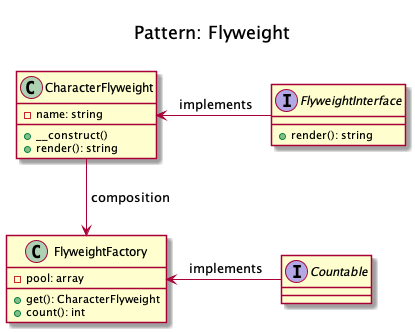
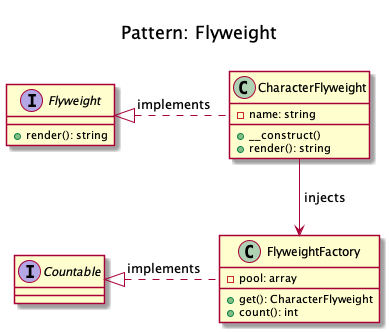
Flyweight was updated.

diff --git a/patterns/structural/flyweight/kamran-ahmed/TeaShop.php b/patterns/structural/flyweight/kamran-ahmed/TeaShop.php
@@ -3,20 +3,20 @@ namespace Patterns\Structural\Flyweight\KamranAhmed;
 
 class TeaShop {
 	protected $orders;
-	protected $teaMaker;
+	protected $teaFactory;
 	protected $messages;
 
-	public function __construct(TeaMaker $teaMaker) {
-		$this->teaMaker = $teaMaker;
+	public function __construct(TeaFactory $teaFactory) {
+		$this->teaFactory = $teaFactory;
 	}
 
-	public function takeOrder(string $teaType, int $table) {
-		$this->orders[$table] = $this->teaMaker->make($teaType);
+	public function takeOrder(string $teaType, int $table): void {
+		$this->orders[$table] = $this->teaFactory->make($teaType);
 	}
 
 	public function serve(): array {
 		foreach ($this->orders as $table => $tea) {
-			$this->messages[] = "Serving tea to table #".$table;
+			$this->messages[] = "Serving ".$tea->getType()." to table #".$table;
 		}
 		return $this->messages;
 	}

diff --git a/tests/kamran-ahmed/FlyweightTest.php b/tests/kamran-ahmed/FlyweightTest.php
@@ -1,10 +1,25 @@
 <?php
 namespace Tests\KamranAhmed;
 
+use Patterns\Structural\Flyweight\KamranAhmed\TeaFactory;
+use Patterns\Structural\Flyweight\KamranAhmed\TeaShop;
 use PHPUnit\Framework\TestCase;
 
 class FlyweightTest extends TestCase {
-	public function testA() {
-		$this->assertTrue(true);
+	public function testTeaShop() {
+		$teaMaker = new TeaFactory();
+		$shop = new TeaShop($teaMaker);
+
+		$shop->takeOrder('less sugar', 1);
+		$shop->takeOrder('more milk', 2);
+		$shop->takeOrder('without sugar', 5);
+		$serve = $shop->serve();
+
+		$this->assertSame('array', gettype($serve));
+		$this->assertSame('Serving less sugar to table #1', $serve[0]);
+		$this->assertCount(3, $serve);
+		$this->assertSame('Serving more milk to table #2', $serve[1]);
+		$this->assertSame('Serving without sugar to table #5', $serve[2]);
 	}
 }
+

diff --git a/patterns/structural/flyweight/domnikl/CharacterFlyweight.php b/patterns/structural/flyweight/domnikl/CharacterFlyweight.php
@@ -3,7 +3,7 @@ namespace Patterns\Structural\Flyweight\Domnikl;
 
 # Implements the flyweight interface and adds storage for intrinsic state (It does not depend on the circumstances).
 # Instances of concrete flyweights are shared by means of a factory.
-class CharacterFlyweight implements FlyweightInterface {
+class CharacterFlyweight implements Flyweight {
 
 	# Any state stored by the concrete flyweight must be independent of its context.
 	# For flyweights representing characters, this is usually the corresponding character code.

diff --git a/patterns/structural/flyweight/kamran-ahmed/TeaFactory.php b/patterns/structural/flyweight/kamran-ahmed/TeaFactory.php
@@ -1,13 +1,17 @@
 <?php
 namespace Patterns\Structural\Flyweight\KamranAhmed;
 
-class TeaMaker {
+class TeaFactory {
 	protected $availableTea = [];
 
 	public function make($preference): GreenTea {
 		if (empty($this->availableTea[$preference])) {
-			$this->availableTea[$preference] = new GreenTea();
+			$this->availableTea[$preference] = new GreenTea($preference);
 		}
 		return $this->availableTea[$preference];
+	}
+
+	public function getAvailableTea(): array {
+		return $this->availableTea;
 	}
 }

diff --git a/patterns/structural/flyweight/kamran-ahmed/GreenTea.php b/patterns/structural/flyweight/kamran-ahmed/GreenTea.php
@@ -1,4 +1,14 @@
 <?php
 namespace Patterns\Structural\Flyweight\KamranAhmed;
 
-class GreenTea {}
+class GreenTea {
+	private $type;
+
+	public function __construct($type) {
+		$this->type = $type;
+	}
+
+	public function getType() {
+		return $this->type;
+	}
+}

diff --git a/tests/domnikl/FlyweightTest.php b/tests/domnikl/FlyweightTest.php
@@ -1,7 +1,7 @@
 <?php
 namespace Tests\Domnikl;
 
-use DesignPatterns\Structural\Flyweight\FlyweightFactory;
+use Patterns\Structural\Flyweight\Domnikl\FlyweightFactory;
 use PHPUnit\Framework\TestCase;
 
 class FlyweightTest extends TestCase {

diff --git a/patterns/structural/flyweight/domnikl/Flyweight.php b/patterns/structural/flyweight/domnikl/Flyweight.php
@@ -1,6 +1,6 @@
 <?php
 namespace Patterns\Structural\Flyweight\Domnikl;
 
-interface FlyweightInterface {
+interface Flyweight {
     public function render(string $extrinsicState): string;
 }

diff --git a/patterns/structural/flyweight/readme.md b/patterns/structural/flyweight/readme.md
@@ -10,23 +10,24 @@
 
 + Flyweight pattern **ensures that instances are shared instead of having hundreds of thousands of individual objects** there must be one instance for every char that has been reused for displaying in different fonts.
 
-+ Did you ever have fresh tea from some stall? They often **make more than one cup that you demanded and save the rest for any other customer** so to save the resources e.g. gas etc. **Flyweight pattern is all about that sharing**.
++ Did you ever have fresh tea from some stall? They often **make more than one cup that you demanded and save the rest for any other customer** so to save the resources like gas etc. **Flyweight pattern is all about that sharing**.
 
 + First of all we have **tea types** and **tea maker**.
+
 + **Anything that will be cached is flyweight**, types of tea here will be flyweights.
+
 + _(in the kamranahmedse example)_ TeaMaker acts as a factory and saves the tea.
 
 
 ## Recipe
-
-
-
++ Create a Factory class to make the unique objects based on its keys.
++ The Factory only will make the object if the key doesn't exists. 
++ The Factory will return the object newly created or already create (if the key already exists). 
 
 ![](domnikl/diagram.png)
 ![](kamran-ahmed/diagram.png)
 
-<!-- 
+
 ## Sources
-+ [Kamran Ahmed](https://github.com/kamranahmedse/design-patterns-for-humans)
-+ [Domnikl](https://github.com/domnikl/DesignPatternsPHP)
--->
++ [Kamran Ahmed](https://github.com/kamranahmedse/design-patterns-for-humans#-flyweight)
++ [Domnikl](https://github.com/domnikl/DesignPatternsPHP/tree/master/Structural/Flyweight)

diff --git a/checklist.md b/checklist.md
@@ -10,7 +10,7 @@
 **Structural:** DataMapper | done | done | done | done | done 
 **Structural:** Dependency Injection | done | done | done | done | done 
 **Structural:** Fluent Interface | done | done | done | done | done
-**Structural:** Flyweight | done |  | done | done | done
+**Structural:** Flyweight | done | done | done | done | done
 **Structural:** Proxy | done | done | done | done | done 
 **Structural:** Registry | done | done | done | done | done
 
@@ -48,7 +48,7 @@
 - [x] **_Dependency Injection_**  _(2019.03.16)_
 - [ ] Facade
 - [x] **_Fluent Interface_** _(2019.03.16)_
-- [x] **_Flyweight_** _(2019.03.14)_
+- [x] **_Flyweight_** _(2019.03.18)_
 - [x] **_Proxy_** _(2019.03.18)_
 - [x] **_Registry_** _(2019.03.18)_
 

diff --git a/readme.md b/readme.md
@@ -27,7 +27,7 @@ Concerned with object composition or **how the entities can use each other**.  "
 + [D] [DataMapper](patterns/structural/data-mapper) _(The Mapper)_
 + [D] [Dependency Injection](patterns/structural/dependency-injection) _(The Injector)_
 + [D] [Fluent Interface](patterns/structural/fluentinterface) _(The Chain Caller)_ 
-+ [DK] [Flyweight](patterns/structural/flyweight) _(The Object Sharer)_
++ [DK] [Flyweight](patterns/structural/flyweight) _(The Object Manager)_
 + [DK] [Proxy](patterns/structural/proxy) _(The Door Keeper)._
 + [D] [Registry](patterns/structural/registry) _(The Global State Logger). Anti-pattern, use DI._
 
